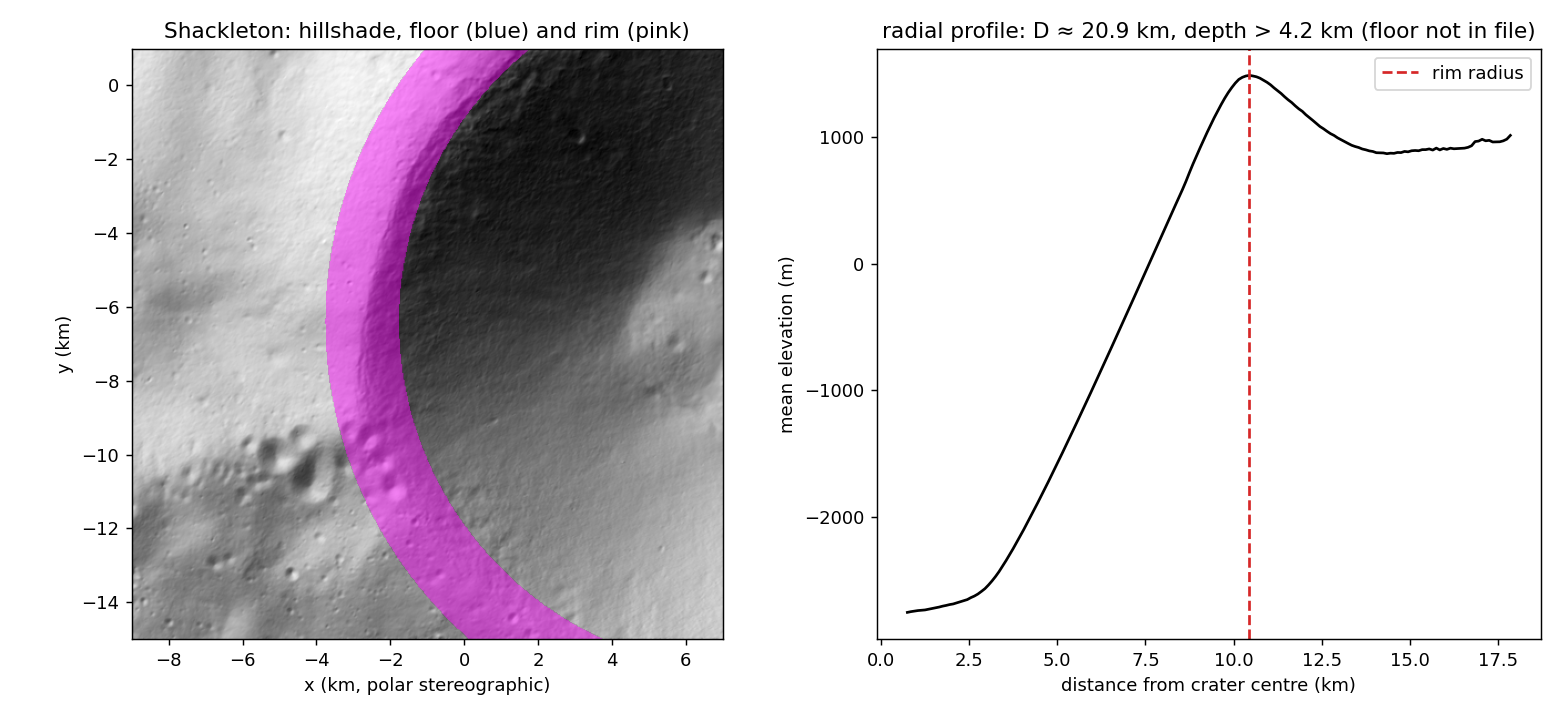
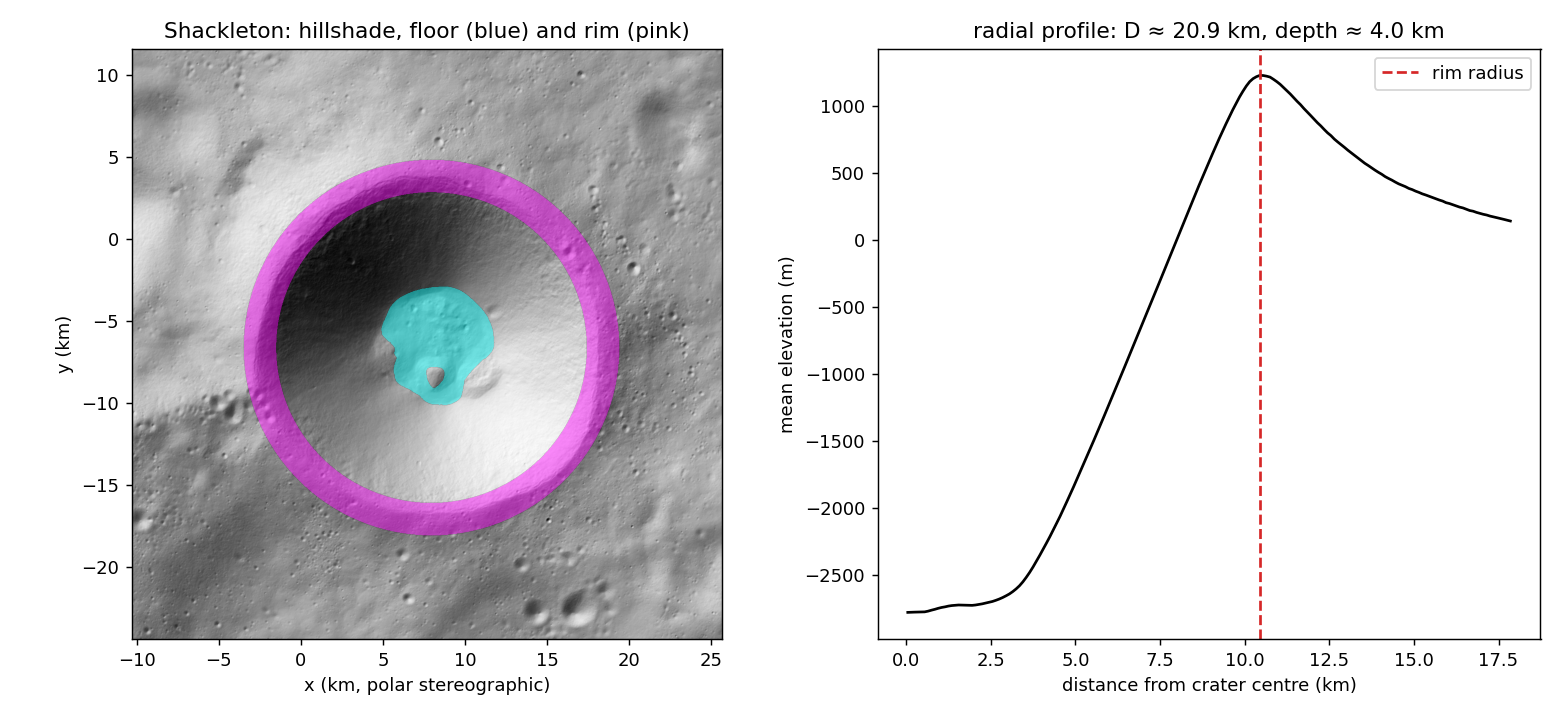
moon_dem: fit crater centre on the rim crest, add full-crater result
The lowest floor point is ~2 km east of Shackleton's centre, which put
the rim ring outside the crest and gave D = 22.9 km. The centre is now
the one that makes the ring-averaged rim crest highest (grid search,
+/- 3 km). Result on the 20 m south-pole LDEM: D 20.9 km, depth ~4.0 km,
depth/diameter 0.19, centre ~350 m from the catalogue position.

Claude-Session: https://claude.ai/code/session_01ERtfiRgD3k96pTzqS4nTqF

diff --git a/src/moon_dem.py b/src/moon_dem.py
@@ -91,12 +91,38 @@ def load_crop(path: str, half_width_m: float, res_m: float):
     return dem, transform, crs, (cx, cy)
 
 
+def fit_centre(dem, xs, ys, cx0, cy0, half_width_m, search_m=3000.0, step_m=250.0):
+    """Centre that makes the rim crest sharpest.
+
+    For each candidate centre within +/- search_m of the catalogue position,
+    average the elevation in 200 m rings; the ring average peaks highest when
+    the rings line up with the crest. The lowest floor point is not used: it
+    can sit km away from the centre (it did for Shackleton).
+    """
+    sub = (slice(None, None, 3), slice(None, None, 3))   # 3x thinner grid, fast enough
+    z, x, y = dem[sub], xs[sub], ys[sub]
+    ok = np.isfinite(z)
+    z, x, y = z[ok], x[ok], y[ok]
+    rmax = 0.95 * half_width_m
+    best = (-np.inf, cx0, cy0)
+    for dx in np.arange(-search_m, search_m + 1, step_m):
+        for dy in np.arange(-search_m, search_m + 1, step_m):
+            r = np.hypot(x - (cx0 + dx), y - (cy0 + dy))
+            m = r < rmax
+            b = (r[m] // 200).astype(int)
+            cnt = np.bincount(b)
+            prof = np.bincount(b, weights=z[m]) / np.maximum(cnt, 1)
+            prof = prof[cnt > 20]
+            if prof.size and prof.max() > best[0]:
+                best = (prof.max(), cx0 + dx, cy0 + dy)
+    return best[1], best[2]
+
+
 def zone_crater(dem, transform, centre_xy, half_width_m, rim_band_m=1000.0):
     """Find the rim radius and floor from the DEM, and say what the tile covers.
 
-    - centre: the catalogue position; moved to the lowest point within 5 km only
-      when the data covers that whole 5 km disc (otherwise the "lowest point" is
-      just the tile edge on a crater wall)
+    - centre: the catalogue position, refined by fit_centre only when the data
+      covers the whole 5 km disc around it (a partial tile would bias the fit)
     - rim radius: the radius where the mean elevation of each ring peaks, using
       only rings that the data covers well enough
     - rim zone: a ring of +/- rim_band_m around that radius (covered part only)
@@ -119,9 +145,7 @@ def zone_crater(dem, transform, centre_xy, half_width_m, rim_band_m=1000.0):
     disc5_cov = coverage(r0 < 5000, np.pi * 5000 ** 2)
     centre_refined = disc5_cov >= 0.9
     if centre_refined:
-        cand = np.where((r0 < 5000) & valid, dem, np.inf)
-        i, j = np.unravel_index(np.argmin(cand), dem.shape)
-        cx, cy = xs[i, j], ys[i, j]
+        cx, cy = fit_centre(dem, xs, ys, cx, cy, half_width_m)
 
     r = np.hypot(xs - cx, ys - cy)
     step = max(res, 100.0)

diff --git a/AI_USAGE.md b/AI_USAGE.md
@@ -3,4 +3,4 @@ edited by (name)
 Sat 14:15 | Claude | summarised (paper title) | numbers checked against the
 paper
 Fri 13 Nov | Claude | wrote src/shadowsim/ (DEM, horizon, sun, yearly light simulation, score), src/run_shadow_sites.py, data/sites.csv, tests/ | sun positions checked against pvlib; tests on synthetic crater; real Copernicus download not yet tested by a human
-Sat 14 Nov | Claude | wrote src/moon_dem.py (crop LOLA south-pole DEM around Shackleton, resample to 30 m, rim/floor zones, quicklook) | tested on a synthetic crater and on the real Site04 tile (D 20.9 km; tile has no floor); crater centre coords to check against the IAU gazetteer
+Sat 14 Nov | Claude | wrote src/moon_dem.py (crop LOLA south-pole DEM around Shackleton, resample to 30 m, rim/floor zones, quicklook) | tested on a synthetic crater, the Site04 tile (no floor) and LDEM_80S_20MPP_ADJ (D 20.9 km, depth ~4.0 km); crater centre coords to check against the IAU gazetteer
